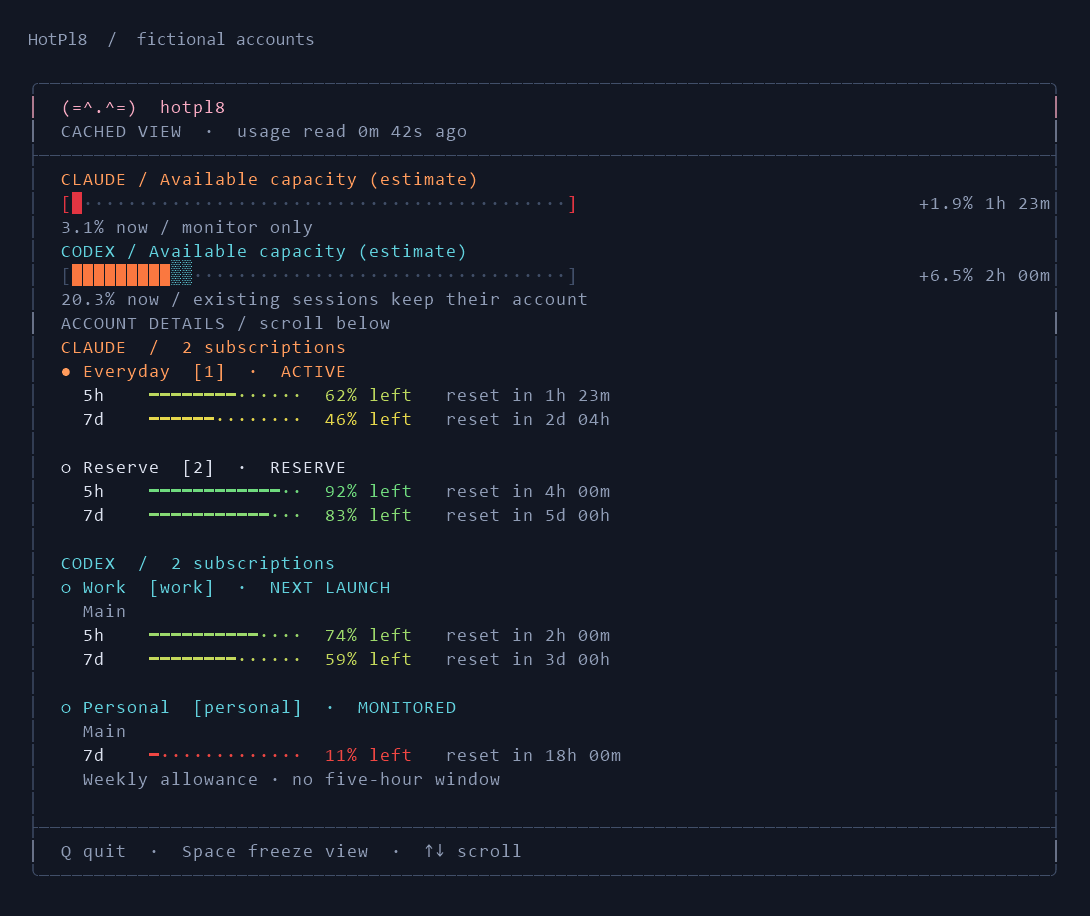
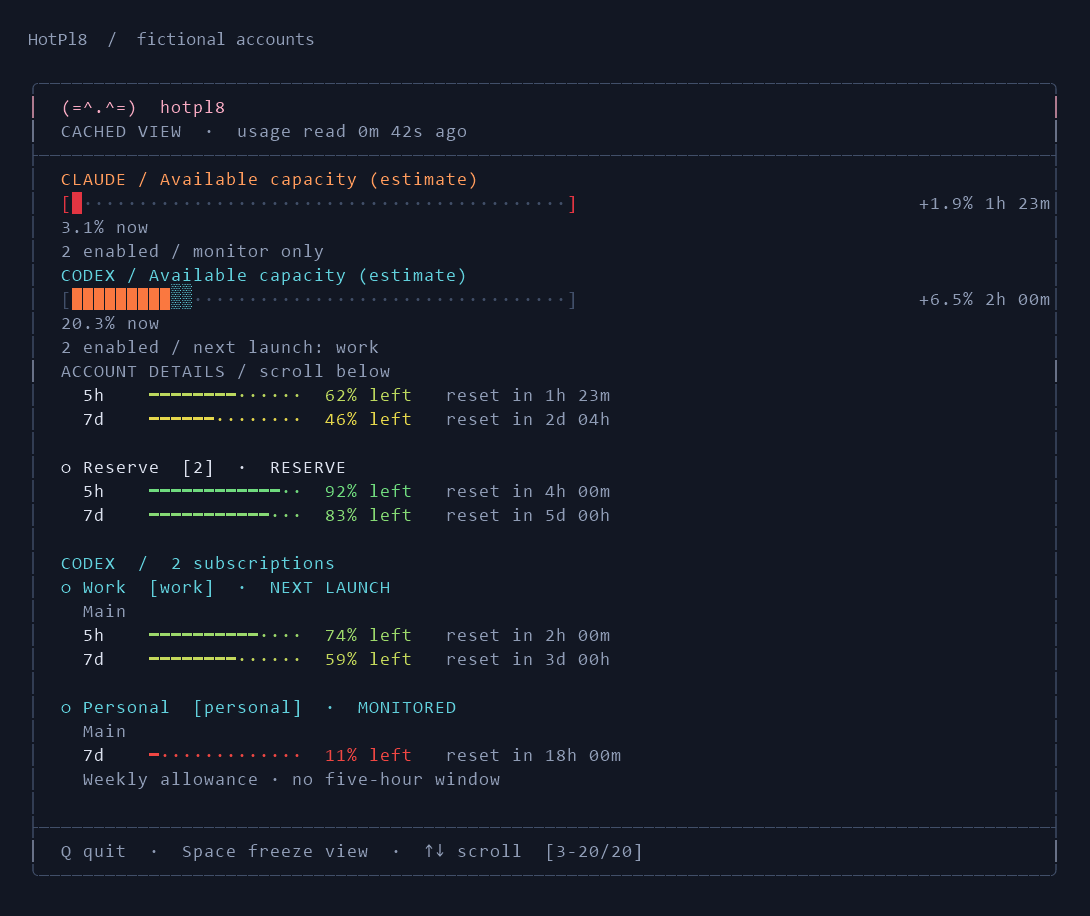
Show measured quota when capacity is unconfigured and expose excluded accounts

diff --git a/docs/capacity.md b/docs/capacity.md
@@ -8,6 +8,8 @@ A fresh, explicitly blocked Codex account with a measured zero contributes zero 
 
 ## Set subscription capacity
 
+Without capacity conversions, the dashboard falls back to **Weekly headroom (unweighted)** when native weekly readings are available. That bar is an equal-account average, accompanied by the number of ready accounts; it does not claim immediately usable compute or forecast a gain. Missing observations remain shaded. Every provider shows enabled membership and any disabled or duplicate exclusions; Codex also shows the next-launch target. An exhausted enabled subscription contributes zero while retaining its weight. A disabled subscription is excluded, so the remaining account's percentage is not the combined budget of both subscriptions.
+
 Prices and percentages are not interchangeable units. The [profile catalogue](../data/capacity-profiles.json) records published tier names and session multipliers with sources. Published session multipliers alone do not establish weekly totals or the conversion between five-hour and weekly windows. Until these are configured, HotPl8 shows quota readings and a capacity-setup message. A single weekly-only Codex account can be normalized without comparing tiers.
 
 Choose a profile and supply calibrated relative capacities through an account operation:
